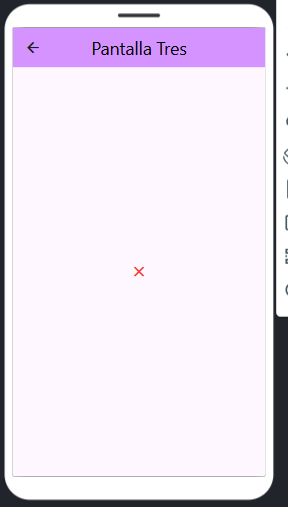
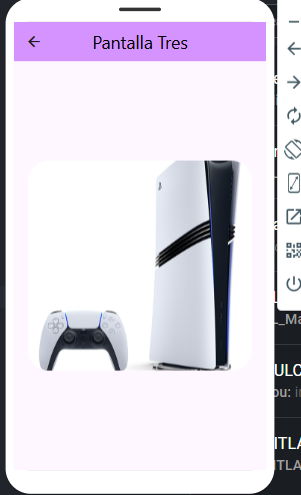
okk

Changed region(s): [[0.0, 0.0, 1.0, 1.0], [0.4688, 0.303, 0.8125, 0.7576], [0.125, 0.6061, 0.4375, 0.7576]]

diff --git a/lib/pagina_ClipRRect.dart b/lib/pagina_ClipRRect.dart
@@ -1,0 +1,41 @@
+import 'package:flutter/material.dart';
+
+class PantallaCuatro extends StatefulWidget {
+  const PantallaCuatro({Key? key}) : super(key: key);
+
+  @override
+  State<PantallaCuatro> createState() => _Widget042State();
+}
+
+class _Widget042State extends State<PantallaCuatro> {
+  @override
+  Widget build(BuildContext context) {
+    return Scaffold(
+      appBar: AppBar(
+        title: const Text(
+          "Pantalla Tres",
+          style: TextStyle(
+            color: Colors.black,
+            fontSize: 25.0,
+          ),
+        ),
+        backgroundColor: const Color(0xffd493ff),
+        centerTitle: true,
+      ),
+      body: Center(
+        child: Padding(
+          padding: const EdgeInsets.all(20.0),
+          child: ClipRRect(
+            borderRadius: BorderRadius.circular(30),
+            child: Image.asset(
+              'assets/images/ps5.jpg',
+              width: double.infinity,
+              height: 300,
+              fit: BoxFit.cover,
+            ),
+          ),
+        ),
+      ),
+    );
+  }
+}

diff --git a/lib/main.dart b/lib/main.dart
@@ -2,7 +2,7 @@ import 'package:flutter/material.dart';
 import 'package:examen1330/pagina_uno.dart';
 import 'package:examen1330/pagina_AnimatedIcon.dart';
 import 'package:examen1330/pagina_AnimatedSize.dart';
-import 'package:examen1330/pagina_CloseButton.dart';
+import 'package:examen1330/pagina_ClipRRect.dart';
 import 'package:examen1330/pagina_DataTable.dart';
 import 'package:examen1330/pagina_Expanded.dart';
 
